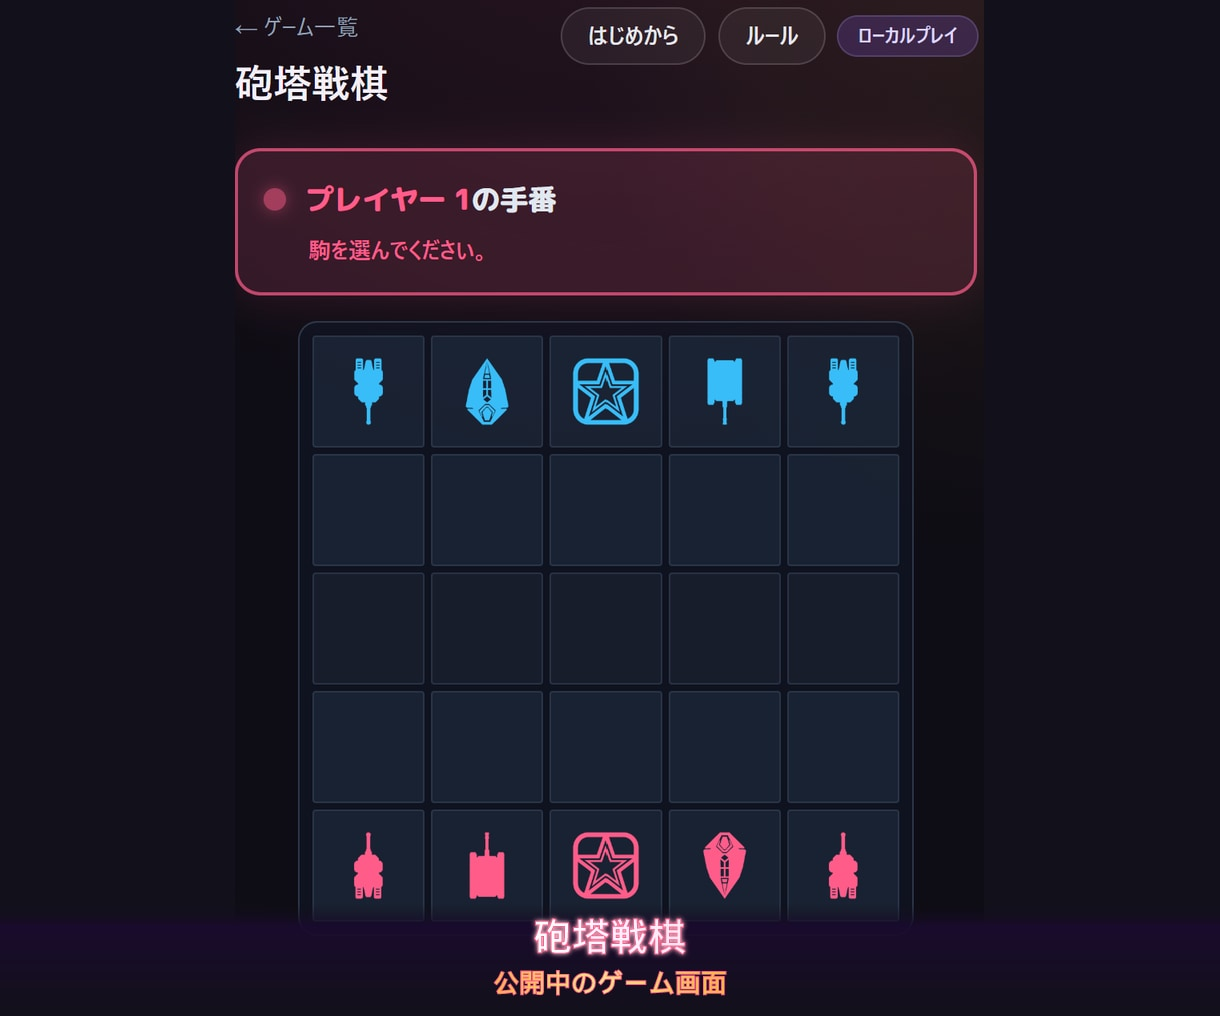
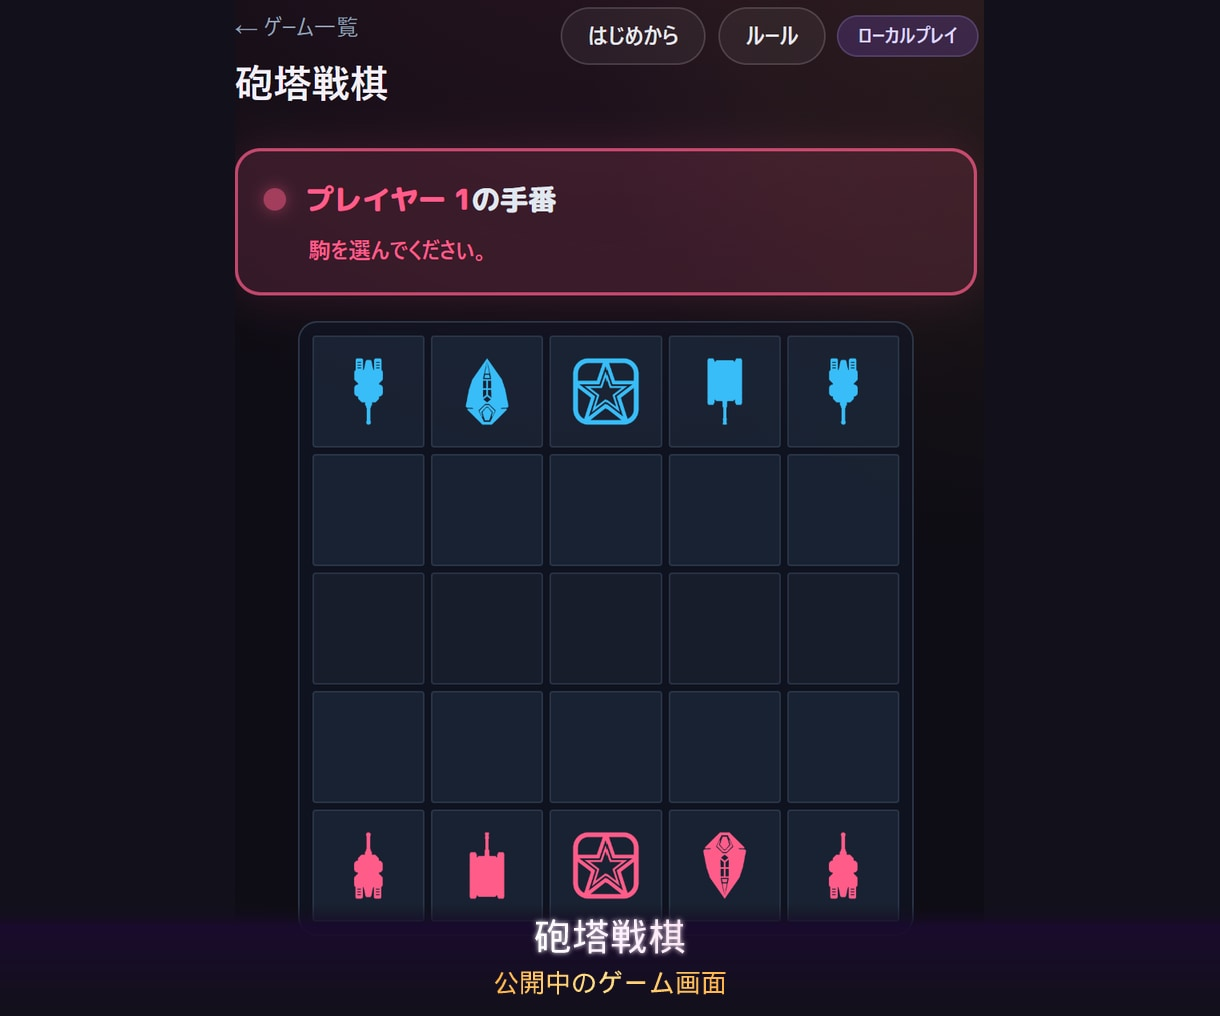
docs(coconala): サムネ下帯の縁取りを削除

Changed region(s): [[0.4049, 0.8848, 0.5918, 0.9764]]

diff --git a/docs/coconala/listing.md b/docs/coconala/listing.md
@@ -47,7 +47,7 @@
 | 3 | [thumbnail-03.jpg](./thumbnail-03.jpg) | マンカラ・カラハ（手動スクショ → [sources/thumbnail-03-source.png](./sources/thumbnail-03-source.png)） |
 | 4 | [thumbnail-04.jpg](./thumbnail-04.jpg) | ルドー（手動スクショ → [sources/thumbnail-04-source.png](./sources/thumbnail-04-source.png)） |
 
-※下帯は「公開中のゲーム画面」。合成はスクショ**全体を切り抜かず**幅1220に収め、下帯は下端密着（文言下の余白なし）。高さは内容に応じ最大約1016px。
+※下帯は 1 枚目寄り（グラデのゲーム名・ゴールドの「公開中のゲーム画面」、縁取りなし）。スクショは**全体表示**、下帯は下端密着。
 
 再生成: `node scripts/compose-coconala-screenshot.mjs <sources/*.png> <ゲーム名> docs/coconala/thumbnail-0N.jpg`（要 `sharp` `@resvg/resvg-js`）。自動キャプチャ用は `capture-coconala-play-shots.mjs`（現状未使用）
 
